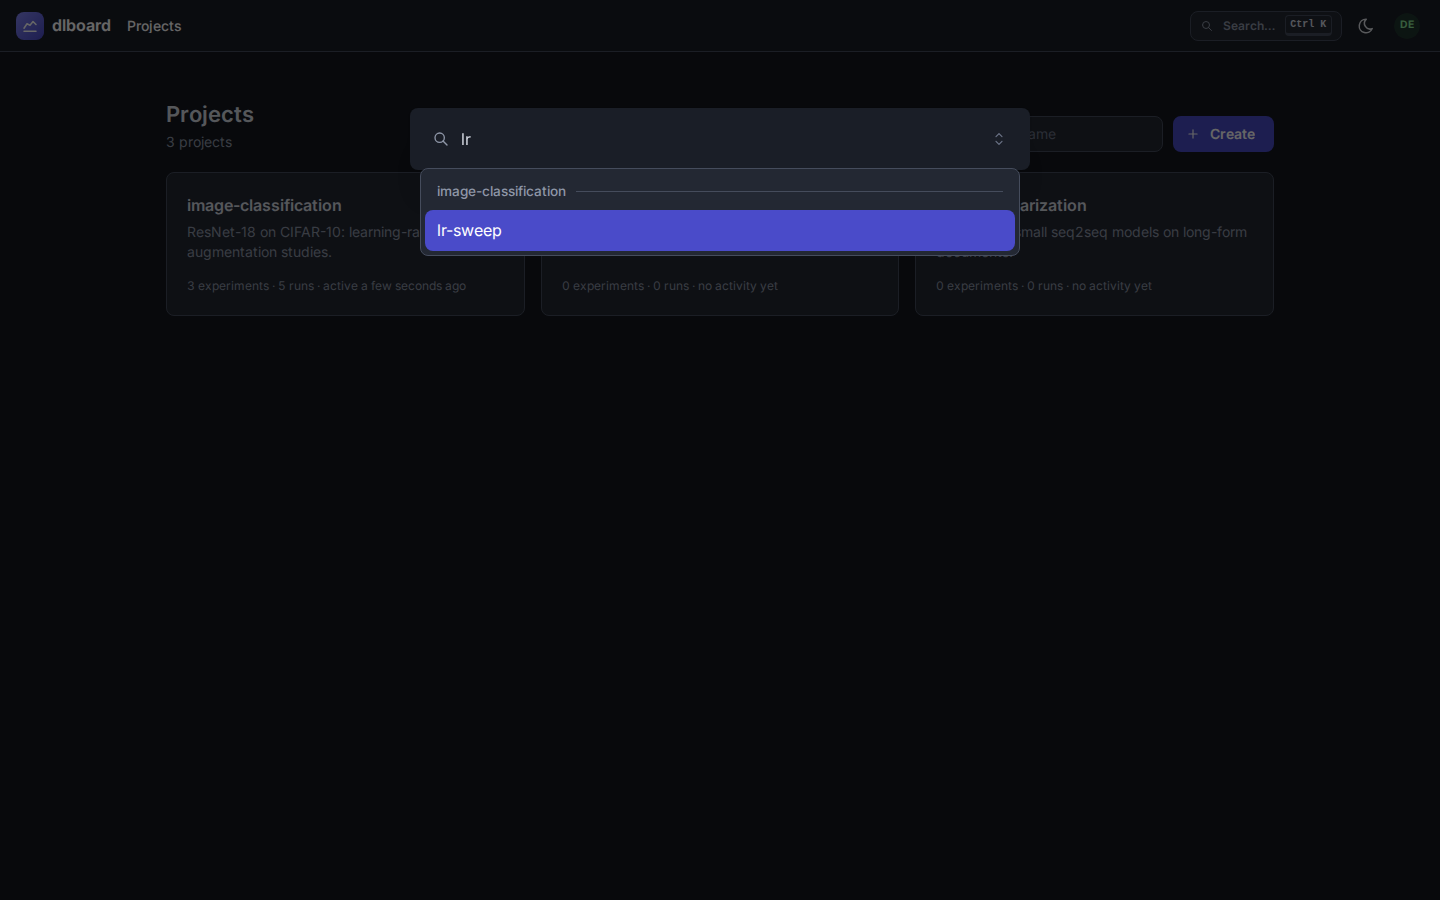
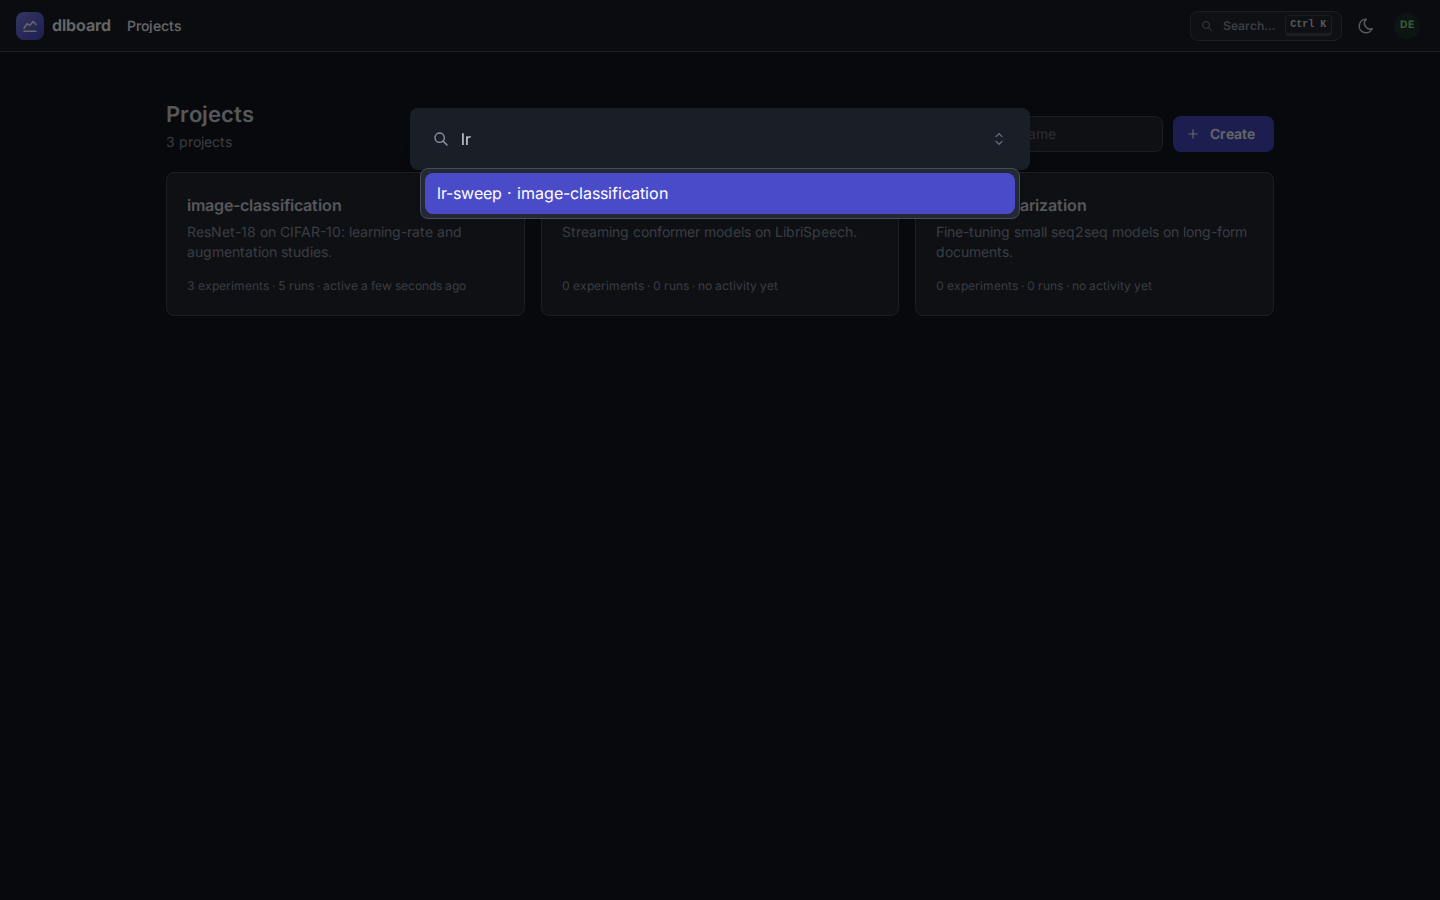
Find comparisons in the Ctrl+K jump palette
The palette listed projects and experiments. It now lists the comparisons the
viewer may see too, each named as a comparison and opening it; someone else's
private comparison is not offered.

It is a flat list, each option naming its project, instead of a group for each
project. Mantine's `limit` counts a group however few of its options match, so
the palette with a group for each project never reached past the first fifty
or so: an experiment of the fifty-first project could not be found by name. A
test with sixty projects fails on the grouped list.

Closes #498

Changed region(s): [[0.2812, 0.1867, 0.7188, 0.3111]]

diff --git a/dlboard/serve/_jump.py b/dlboard/serve/_jump.py
@@ -2,7 +2,7 @@
 The jump palette: Ctrl/Cmd+K (or "/") from anywhere, type a few letters, Enter to open that page.
 
 Costs nothing until used. Opening it is purely client-side (`jump_shortcut.js`), and the list of
-projects and experiments is only fetched from the server when it opens, so no page load pays for
+projects, experiments and comparisons is only fetched from the server when it opens, so no page load pays for
 it. Picking a result navigates client-side, like any in-app link.
 """
 
@@ -17,6 +17,7 @@ from dash import Input, Output
 from dash.exceptions import PreventUpdate
 
 from dlboard.serve._assets import AssetKind, serve_asset
+from dlboard.serve._backend._auth import get_current_user
 from dlboard.serve._backend._data_store import get_data_store
 from dlboard.serve._clientside_script import ClientsideScript
 from dlboard.serve._icons import Icon, icon
@@ -61,7 +62,7 @@ def jump_modal() -> dmc.Modal:
             value=None,
             searchable=True,
             clearable=False,
-            placeholder="Jump to a project or experiment…",
+            placeholder="Jump to a project, experiment or comparison…",
             nothingFoundMessage="Nothing matches",
             leftSection=icon(Icon.SEARCH),
             maxDropdownHeight=360,
@@ -75,26 +76,32 @@ def jump_modal() -> dmc.Modal:
 
 
 def _destinations() -> list[dict[str, Any]]:
-    """Every project, then each project's experiments, as Select groups whose values are paths."""
+    """
+    Every project, and each project's experiments and the comparisons the viewer may see, as Select options whose values are paths.
+
+    A flat list, each named with its project: Mantine's `limit` counts a group however few of its options match, so a Select of
+    a group for each project could never reach past its first `limit` projects.
+    """
     store = get_data_store()
     projects = list(store.get_projects())
-    groups: list[dict[str, Any]] = [
-        {
-            "group": "Projects",
-            "items": [{"value": relative_path(f"/project/{p.id}"), "label": p.name} for p in projects],
-        }
-    ]
+    viewer = get_current_user().id
+    options = [{"value": relative_path(f"/project/{p.id}"), "label": p.name} for p in projects]
     for project in projects:
-        experiments = [
+        options.extend(
             {
                 "value": relative_path(f"/experiment/{e.id}"),
-                "label": e.name or f"Experiment {e.id}",
+                "label": f"{e.name or f'Experiment {e.id}'} · {project.name}",
             }
             for e in store.get_experiments(project.id)
-        ]
-        if experiments:
-            groups.append({"group": project.name, "items": experiments})
-    return groups
+        )
+        options.extend(
+            {
+                "value": relative_path(f"/comparison/{c.id}"),
+                "label": f"{c.name} (comparison) · {project.name}",
+            }
+            for c in store.list_comparisons(project.id, viewer)
+        )
+    return options
 
 
 def install_jump(app: Dash) -> None:

diff --git a/dlboard/tests/comparison_browser_test.py b/dlboard/tests/comparison_browser_test.py
@@ -286,3 +286,65 @@ def test_the_columns_picker_changes_the_list_of_a_comparison_of_your_own_in_plac
     assert saved is not None
     assert cast("BasicExperimentPage", saved).document.hparam_columns == ["loss"]
     assert console_errors == []
+
+
+def test_ctrl_k_finds_the_comparisons_the_viewer_may_see_and_only_those(
+    page: Page, live_server_url: str, console_errors: list[str]
+) -> None:
+    seed = _a_shared_comparison_of_two_experiments("Palette Project")
+    store = get_system_data_store()
+    owner = store.get_or_create_user(models.Principal.unverified("owner")).id
+    # Named for what is searched, and for nothing else the whole suite's many projects have in them: the palette lists a few.
+    visible, private = (
+        store.create_comparison(
+            BasicExperimentPage,
+            models.NewPage[Any, Any](
+                project_id=seed.project_id, owner_id=owner, name=name, shared=shared, panels=[]
+            ),
+            frozenset(seed.run_ids),
+        )
+        for name, shared in (("palette-needle-open", True), ("palette-needle-closed", False))
+    )
+
+    page.goto(live_server_url)
+    expect(page.get_by_role("heading", name="Projects")).to_be_visible()
+    page.keyboard.press("Control+K")
+    search = page.locator("#jump-select")
+    expect(search).to_be_focused()
+    search.press_sequentially("palette-needle")
+
+    # Another person's private comparison is not the viewer's to open, so it is not offered.
+    option = page.get_by_role("option", name="palette-needle-open (comparison)")
+    expect(option).to_be_visible()
+    expect(page.get_by_role("option", name=f"{private.name} (comparison)")).to_have_count(0)
+    option.click()
+
+    expect(page).to_have_url(f"{live_server_url}/comparison/{visible.id}")
+    assert console_errors == []
+
+
+def test_ctrl_k_finds_an_experiment_of_a_project_past_the_first_fifty(
+    page: Page, live_server_url: str, console_errors: list[str]
+) -> None:
+    """The palette lists a few options, but searches every one: a project's place in the list does not hide its experiments."""
+    store = get_system_data_store()
+    for number in range(60):
+        project = store.create_project(models.NewProject(name=f"palette-filler-{number}", description=""))
+        store.create_experiment(
+            models.NewExperiment(project_id=project.id, name=f"palette-filler-run-{number}")
+        )
+    last = store.create_experiment(
+        models.NewExperiment(
+            project_id=store.create_project(models.NewProject(name="palette-last", description="")).id,
+            name="palette-needle-last",
+        )
+    )
+
+    page.goto(live_server_url)
+    expect(page.get_by_role("heading", name="Projects")).to_be_visible()
+    page.keyboard.press("Control+K")
+    page.locator("#jump-select").press_sequentially("palette-needle-last")
+    page.get_by_role("option", name="palette-needle-last").click()
+
+    expect(page).to_have_url(f"{live_server_url}/experiment/{last.id}")
+    assert console_errors == []
